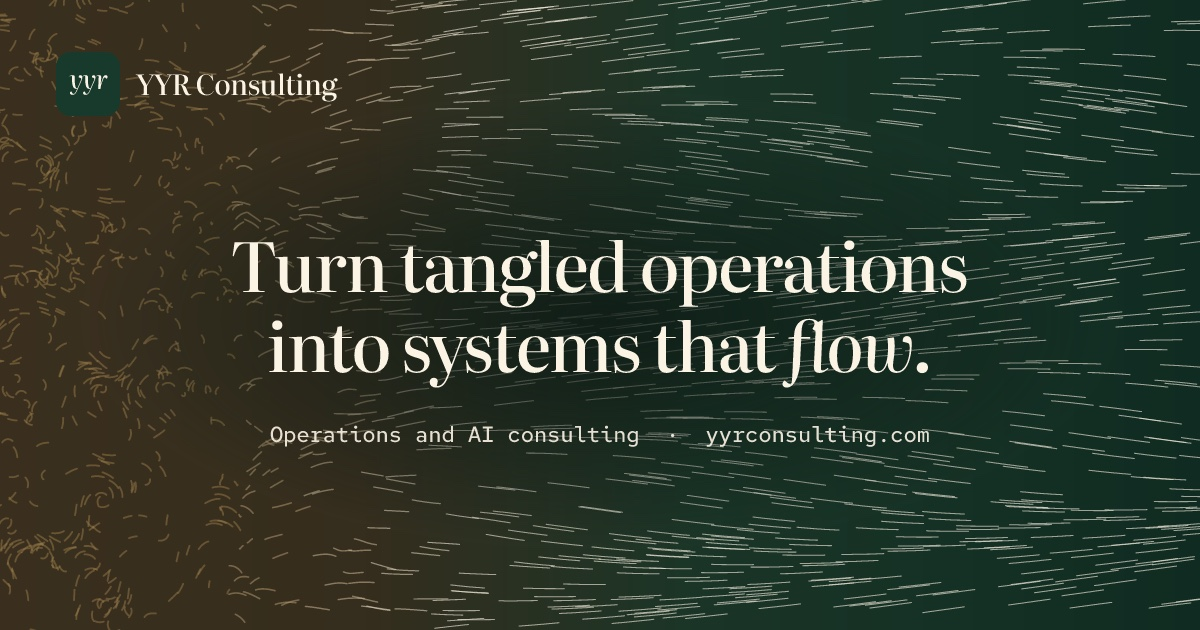
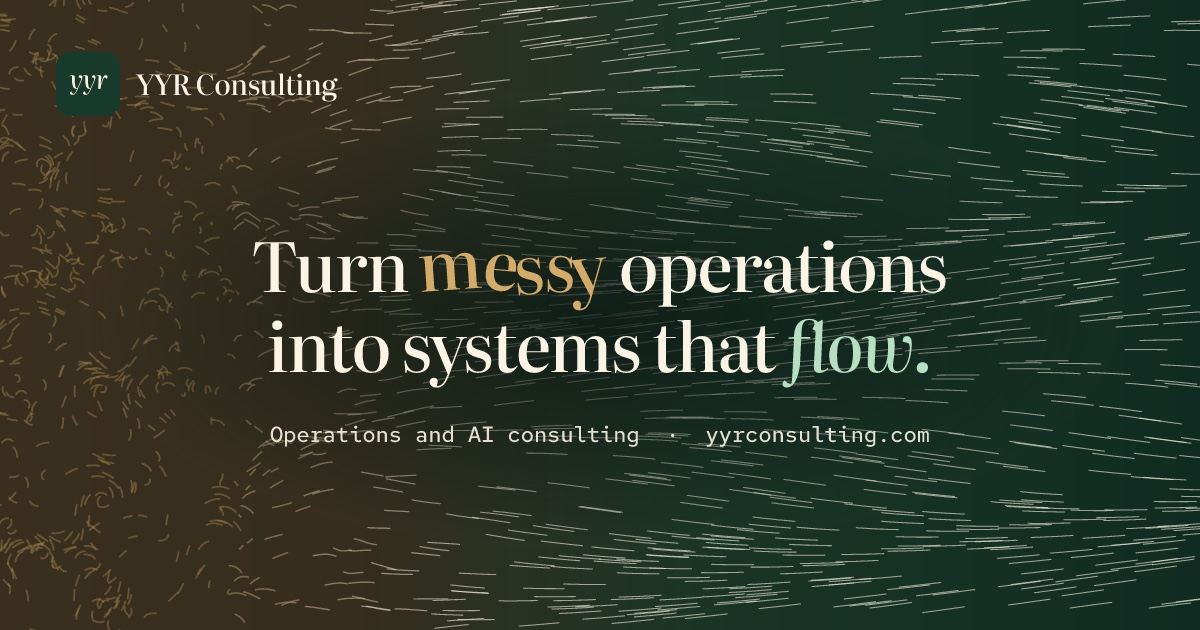
Auto-update 2026-10-11 20:47

Changed region(s): [[0.185, 0.3619, 0.8017, 0.5127], [0.6475, 0.5127, 0.7708, 0.6032]]

diff --git a/index.html b/index.html
@@ -10,7 +10,7 @@
   <meta property="og:type" content="website">
   <meta property="og:url" content="https://yyrconsulting.com/">
   <meta property="og:title" content="YYR Consulting | Operations and AI consulting">
-  <meta property="og:description" content="Turn tangled operations into systems that flow.">
+  <meta property="og:description" content="Turn messy operations into systems that flow.">
   <meta property="og:image" content="https://yyrconsulting.com/brand/og-image.jpg">
   <meta property="og:image:width" content="1200">
   <meta property="og:image:height" content="630">
@@ -46,9 +46,9 @@
     <section class="hero" id="top" aria-labelledby="hero-title">
       <canvas class="flow" data-state="mud" data-pointer aria-hidden="true"></canvas>
       <div class="hero__copy">
-        <h1 class="hero__title" id="hero-title">
-          <span class="line"><span>Turn tangled operations</span></span>
-          <span class="line"><span>into systems that <em>flow.</em></span></span>
+        <h1 class="hero__title" id="hero-title" aria-label="Turn messy operations into systems that flow.">
+          <span class="line" aria-hidden="true"><span>Turn <span class="messy"><span>m</span><span>e</span><span>s</span><span>s</span><span>y</span></span> operations</span></span>
+          <span class="line" aria-hidden="true"><span>into systems that <em class="flowing">flow.</em></span></span>
         </h1>
         <p class="hero__sub">Operations and AI consulting that finds what slows your team down and builds the fix in weeks.</p>
         <div class="hero__actions">
@@ -65,14 +65,14 @@
     </section>
 
     <section class="services" id="services" aria-labelledby="services-title">
-      <div class="wrap services__wrap">
+      <div class="wrap">
         <h2 class="h2" id="services-title">Services</h2>
-        <dl class="svc">
-          <div class="svc__row"><dt>Diagnosis and quick wins</dt><dd>Pinpoint what slows your team down and fix what matters most first.</dd></div>
-          <div class="svc__row"><dt>Custom AI-built tools</dt><dd>Internal apps built for your team’s day-to-day work.</dd></div>
-          <div class="svc__row"><dt>Connected systems and dashboards</dt><dd>Your tools working together, so every team sees the same numbers.</dd></div>
-          <div class="svc__row"><dt>AI strategy and training</dt><dd>Where AI pays off, sensible guardrails, and hands-on training for your team.</dd></div>
-        </dl>
+        <ul class="svc">
+          <li><h3>Diagnosis and quick wins</h3><p>Find the bottleneck. Fix it first.</p></li>
+          <li><h3>Custom AI-built tools</h3><p>Internal apps shaped around your team.</p></li>
+          <li><h3>Systems and dashboards</h3><p>One set of numbers, everywhere.</p></li>
+          <li><h3>AI strategy and training</h3><p>Where AI pays off, and how to use it well.</p></li>
+        </ul>
       </div>
     </section>
 
@@ -94,7 +94,7 @@
           </div>
         </div>
         <ul class="results">
-          <li><strong>100+ to 3 or 4</strong> inventory errors per area</li>
+          <li><strong>96% fewer</strong> inventory errors</li>
           <li><strong>Seven figures</strong> in idle stock headed back to cash</li>
           <li><strong>In-house</strong> team owns it day to day</li>
         </ul>
@@ -129,17 +129,18 @@
           <div class="schools">
             <div class="school">
               <span class="school__logo school__logo--berkeley" role="img" aria-label="UC Berkeley"></span>
-              <div class="school__info">
-                <p><strong>MBA and M.Eng</strong>, Operations Research <span class="tag">2028</span></p>
-                <p class="school__note">Consortium Mark Ross Fellow</p>
-              </div>
+              <ul class="creds">
+                <li>MBA, Haas School of Business, class of 2028</li>
+                <li>M.Eng in Operations Research, focused on applied AI</li>
+                <li>Consortium Mark Ross Fellow</li>
+              </ul>
             </div>
             <div class="school">
               <span class="school__logo school__logo--cornell" role="img" aria-label="Cornell University"></span>
-              <div class="school__info">
-                <p><strong>M.Eng</strong>, Financial and Business Systems <span class="tag tag--hi">4.0 GPA</span></p>
-                <p><strong>B.S.</strong>, Engineering and Entrepreneurship <span class="tag tag--hi">Cum Laude</span></p>
-              </div>
+              <ul class="creds">
+                <li>M.Eng in Financial and Business Systems, 4.0 GPA</li>
+                <li>B.S. in Engineering and Entrepreneurship, cum laude</li>
+              </ul>
             </div>
           </div>
           <a class="about__link" href="https://www.linkedin.com/in/yitzyrosenberg/" rel="noopener">LinkedIn profile<svg class="icon" viewBox="0 0 256 256" aria-hidden="true"><path fill="currentColor" d="M221.66,133.66l-72,72a8,8,0,0,1-11.32-11.32L196.69,136H40a8,8,0,0,1,0-16H196.69L138.34,61.66a8,8,0,0,1,11.32-11.32l72,72A8,8,0,0,1,221.66,133.66Z"/></svg></a>

diff --git a/styles.css b/styles.css
@@ -154,6 +154,15 @@ a { color: inherit; text-underline-offset: 0.2em; text-decoration-thickness: 1px
   text-shadow: 0 2px 30px rgb(6 20 14 / 0.3);
 }
 .hero__title em { font-weight: 400; }
+/* The two states in the words themselves: mud-colored and knocked out of line, then clean and smooth. */
+.hero__title .messy { color: #d4ab68; white-space: nowrap; }
+.hero__title .messy > span { display: inline-block; }
+.hero__title .messy > span:nth-child(1) { transform: translateY(0.03em) rotate(-4deg); }
+.hero__title .messy > span:nth-child(2) { transform: translateY(-0.05em) rotate(5deg); }
+.hero__title .messy > span:nth-child(3) { transform: translateY(0.04em) rotate(-3deg); }
+.hero__title .messy > span:nth-child(4) { transform: translateY(-0.02em) rotate(4deg); }
+.hero__title .messy > span:nth-child(5) { transform: translateY(0.05em) rotate(-5deg); }
+.hero__title .flowing { color: #b6e0c1; }
 .hero__title .line { display: block; overflow: hidden; padding: 0 0.08em 0.24em; margin: 0 -0.08em -0.24em; }
 .hero__title .line > span { display: inline-block; }
 .hero__sub {
@@ -184,15 +193,11 @@ a { color: inherit; text-underline-offset: 0.2em; text-decoration-thickness: 1px
 
 /* Services */
 .services { padding: clamp(48px, 6vw, 80px) 0 clamp(88px, 11vw, 140px); }
-.services__wrap { display: grid; grid-template-columns: minmax(0, 4fr) minmax(0, 8fr); gap: clamp(32px, 5vw, 72px); align-items: start; }
-.services__wrap > .h2 { position: sticky; top: 112px; }
-@media (max-width: 900px) { .services__wrap { grid-template-columns: minmax(0, 1fr); } .services__wrap > .h2 { position: static; } }
-.svc__row { padding: 22px 0; display: grid; grid-template-columns: minmax(0, 5fr) minmax(0, 7fr); gap: 24px; }
-.svc { border-top: 1px solid var(--line-strong); }
-.svc__row + .svc__row { border-top: 1px solid var(--line); }
-.svc dt { font-size: 1.3rem; font-weight: 450; letter-spacing: -0.02em; line-height: 1.25; }
-.svc dd { color: var(--ink-2); font-size: 1.02rem; }
-@media (max-width: 640px) { .svc__row { grid-template-columns: minmax(0, 1fr); gap: 8px; } }
+.svc { margin-top: 40px; display: grid; grid-template-columns: repeat(2, minmax(0, 1fr)); gap: 0 clamp(24px, 4vw, 56px); }
+@media (max-width: 720px) { .svc { grid-template-columns: minmax(0, 1fr); } }
+.svc li { padding: 24px 0 26px; border-top: 1px solid var(--line-strong); }
+.svc h3 { font-size: clamp(1.35rem, 2vw, 1.6rem); font-weight: 450; letter-spacing: -0.025em; line-height: 1.2; }
+.svc p { margin-top: 6px; color: var(--ink-2); font-size: 1.05rem; }
 
 /* Work: cream card over the field */
 .work {
@@ -272,26 +277,16 @@ a { color: inherit; text-underline-offset: 0.2em; text-decoration-thickness: 1px
 @media (hover: hover) and (pointer: fine) { .about__link:hover .icon { transform: translateX(3px); } }
 
 /* Education, inside About */
-.schools { margin-top: 30px; padding-top: 24px; border-top: 1px solid var(--line-strong); display: grid; gap: 20px; }
-.school { display: grid; grid-template-columns: 150px minmax(0, 1fr); gap: 20px; align-items: start; }
-@media (max-width: 560px) { .school { grid-template-columns: minmax(0, 1fr); gap: 10px; } }
+.schools { margin-top: 30px; padding-top: 26px; border-top: 1px solid var(--line-strong); display: grid; grid-template-columns: repeat(2, minmax(0, 1fr)); gap: 28px; }
+@media (max-width: 640px) { .schools { grid-template-columns: minmax(0, 1fr); } }
+.school .creds { margin-top: 16px; }
 .school__logo {
-  display: block; height: 40px;
+  display: block; height: 36px;
   background: var(--ink);
   -webkit-mask: var(--logo) no-repeat left center / contain; mask: var(--logo) no-repeat left center / contain;
 }
-.school__logo--berkeley { --logo: url("img/berkeley-wordmark.svg"); width: 128px; }
-.school__logo--cornell { --logo: url("img/cornell-wordmark.svg"); width: 150px; height: 20px; margin-top: 6px; }
-.school__info p { font-size: 1rem; line-height: 1.5; color: var(--ink-2); }
-.school__info p + p { margin-top: 6px; }
-.school__info strong { color: var(--ink); font-weight: 500; }
-.school__note { font-family: var(--mono); font-size: 12.5px !important; }
-.tag {
-  margin-left: 6px; height: 24px; padding: 0 10px; display: inline-flex; align-items: center; vertical-align: 2px;
-  border: 1px solid var(--line-strong); border-radius: 999px;
-  font-family: var(--mono); font-size: 11.5px; font-weight: 500; color: var(--ink-2); white-space: nowrap;
-}
-.tag--hi { border-color: var(--accent); background: var(--accent); color: var(--ground); }
+.school__logo--berkeley { --logo: url("img/berkeley-wordmark.svg"); width: 115px; }
+.school__logo--cornell { --logo: url("img/cornell-wordmark.svg"); width: 170px; }
 
 /* Contact */
 .contact { padding: clamp(96px, 12vw, 160px) 0; }
